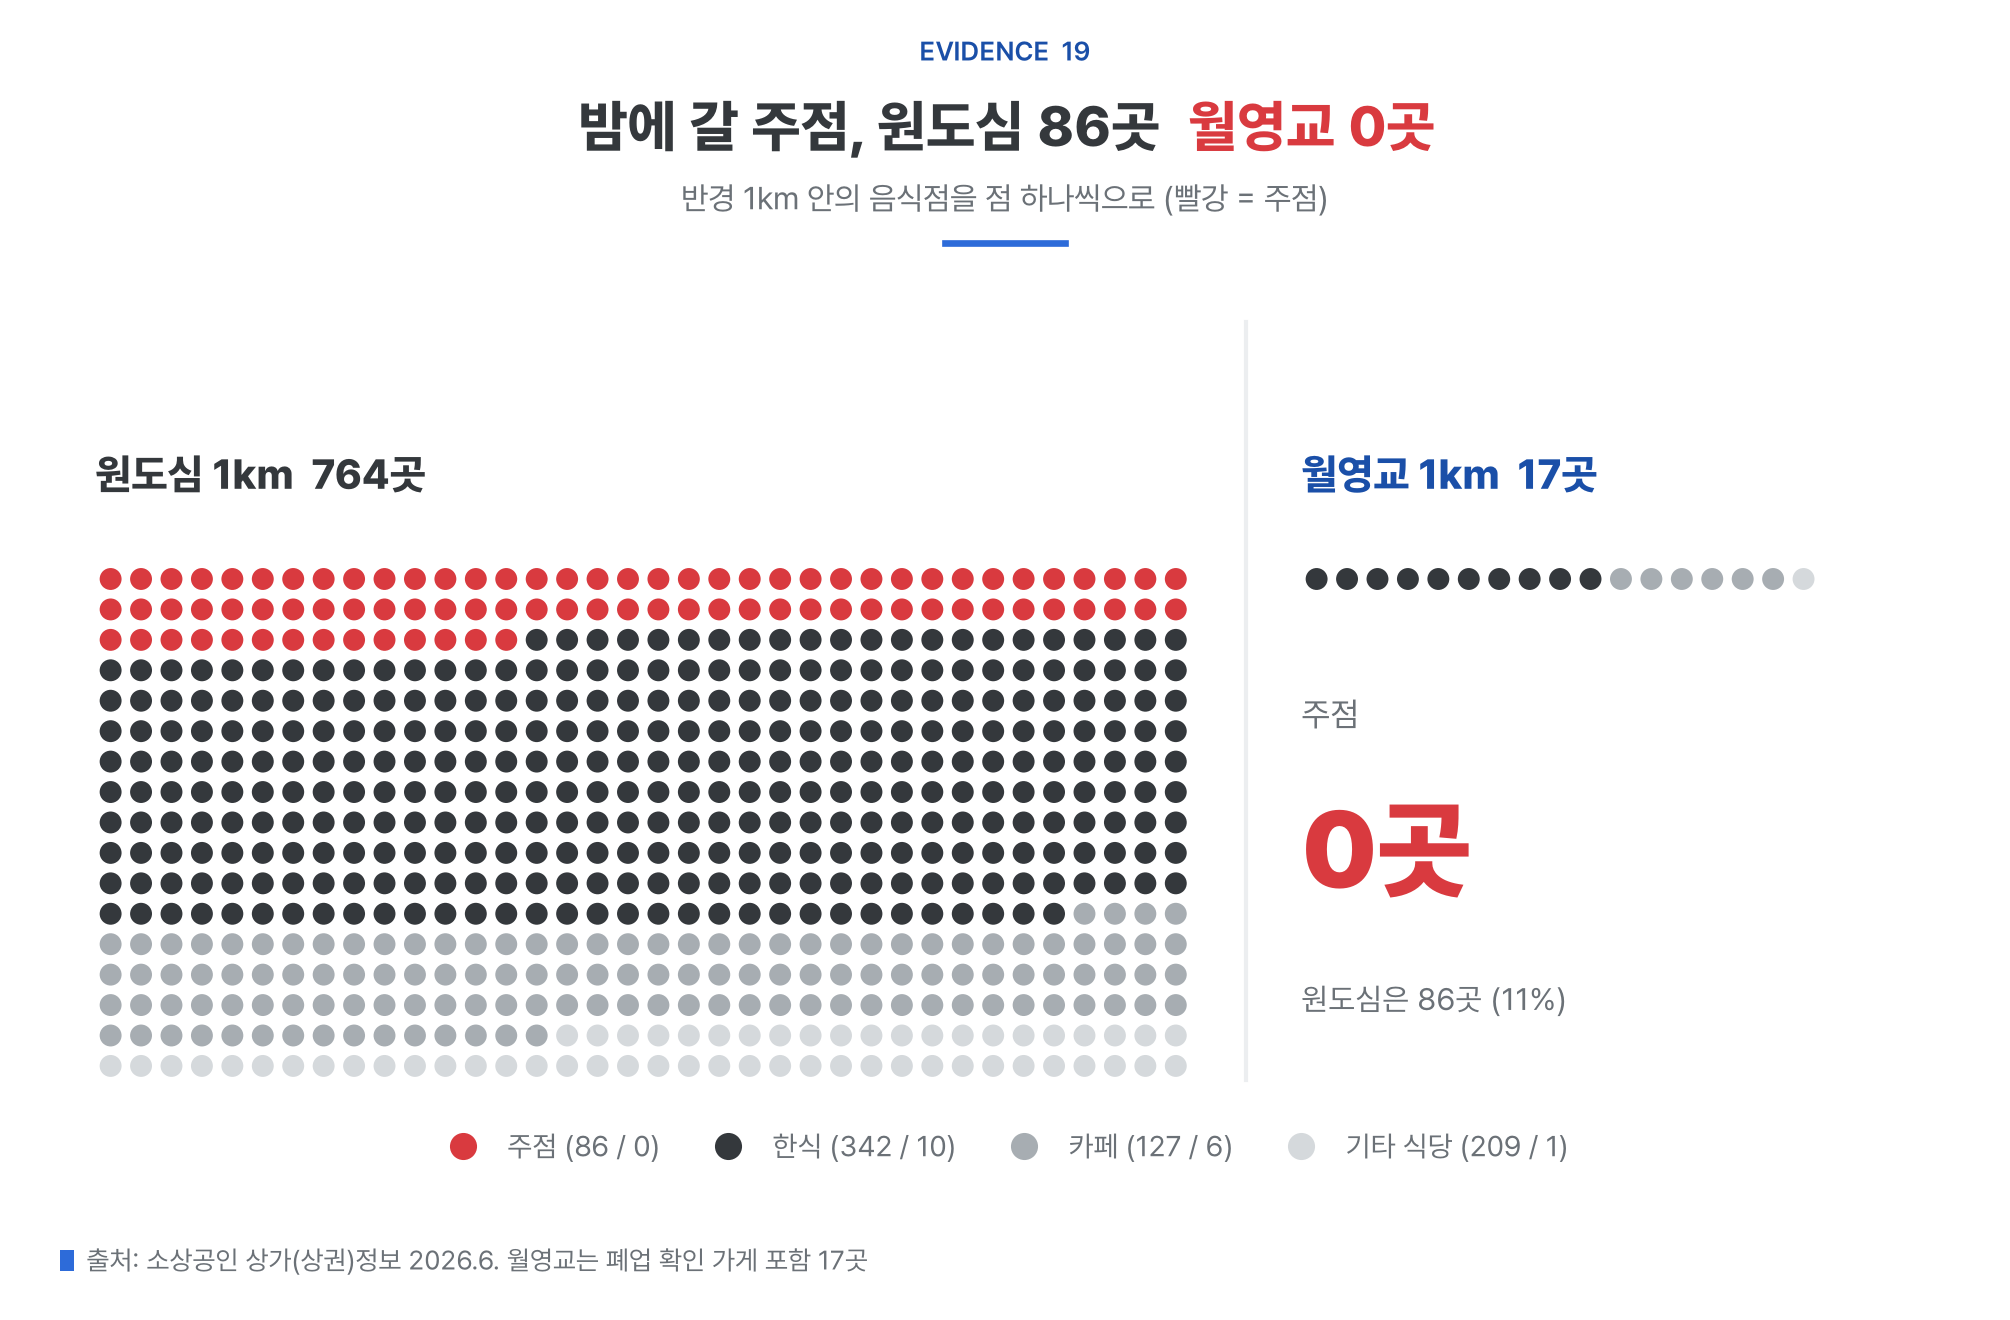
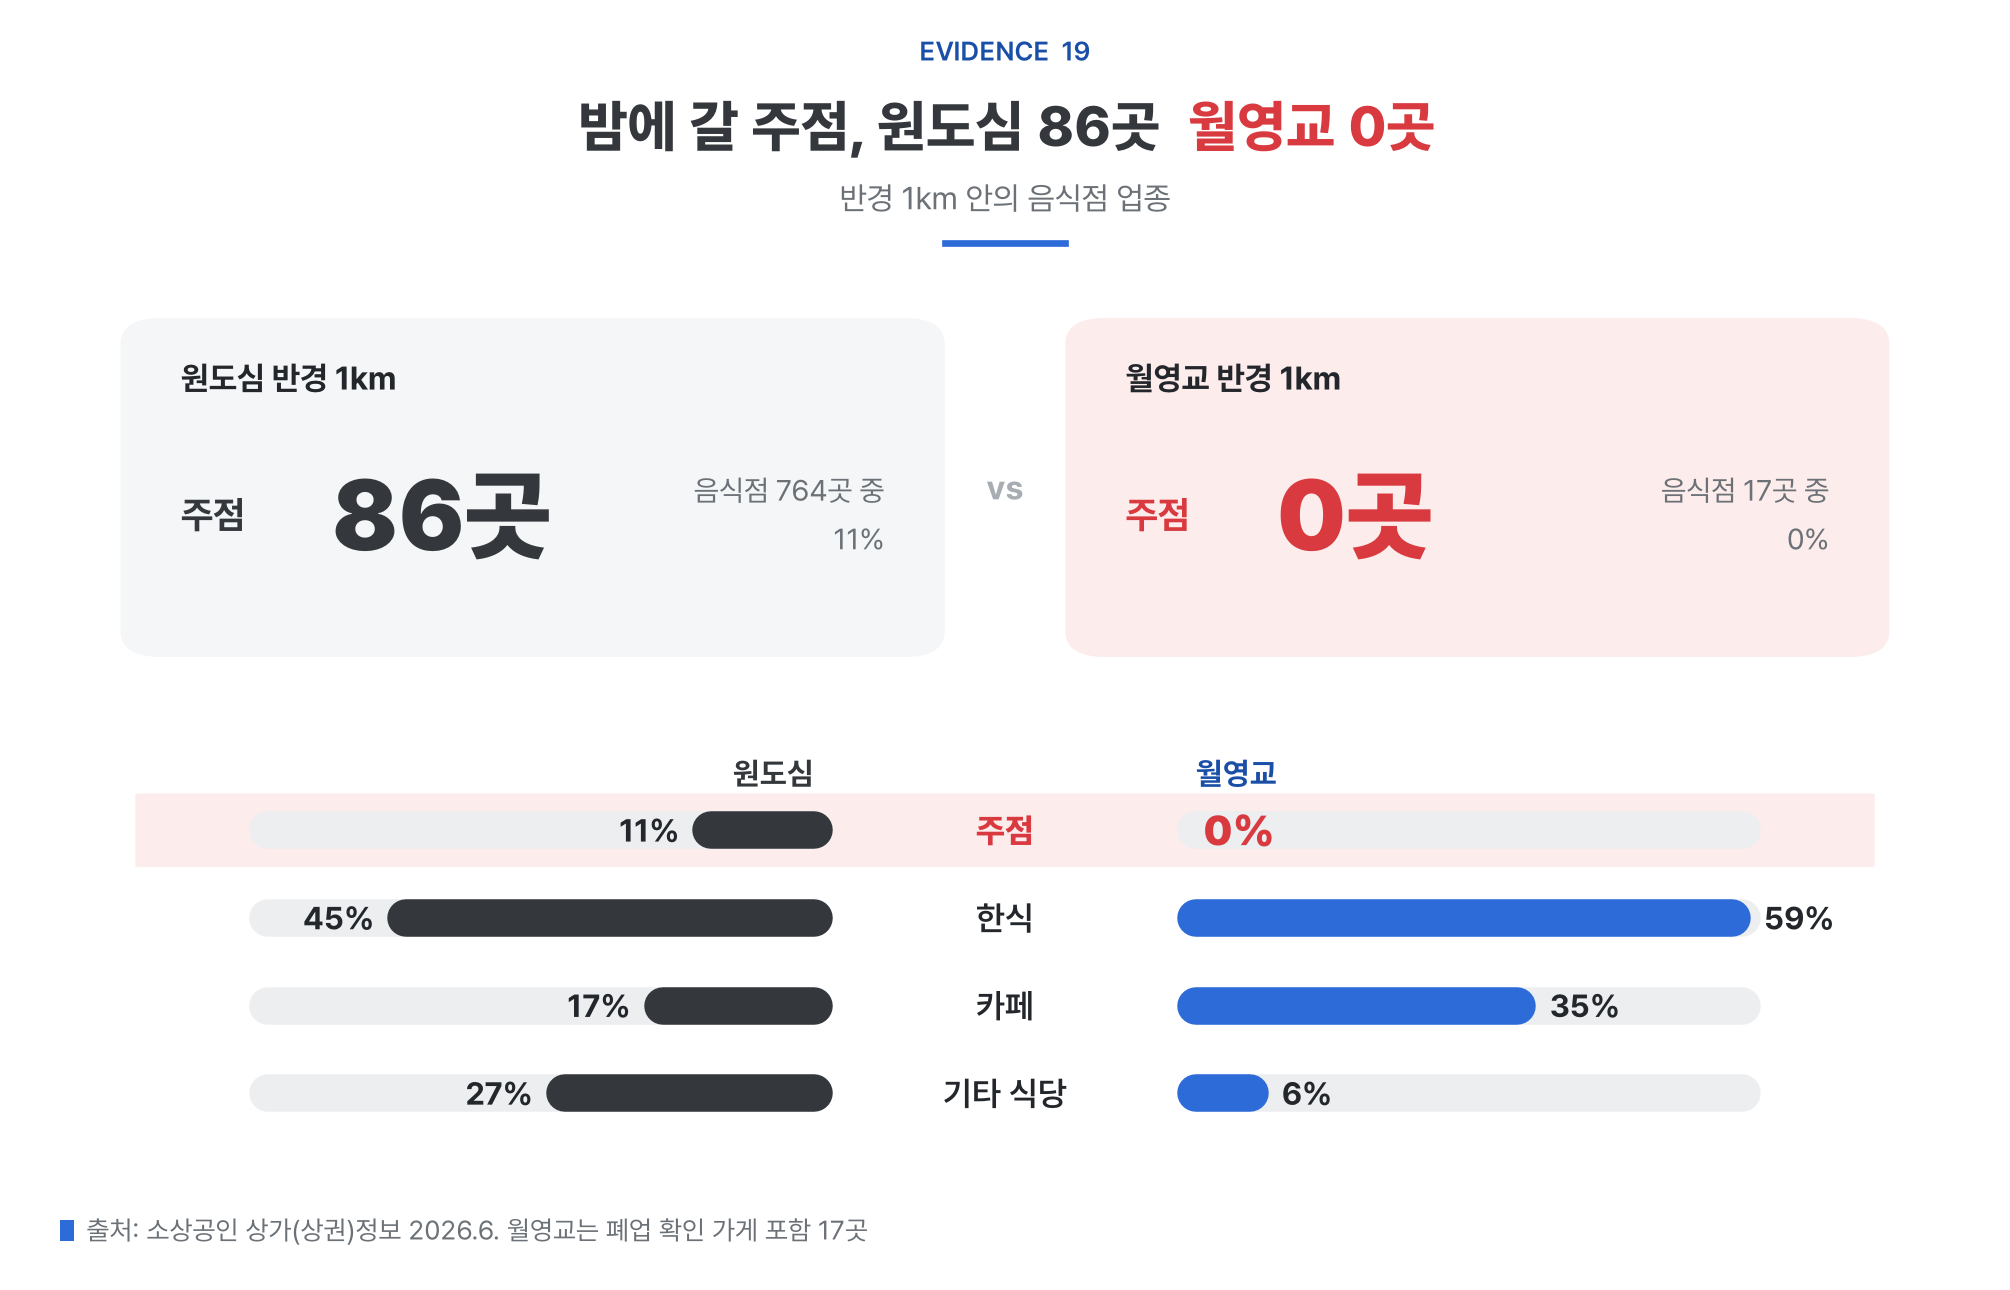
보고서 그림 19·26번 도안 교체: 숫자 카드+대칭 막대, 노선도
- 19번 업종 구성: 주점 86곳 vs 0곳 큰 숫자 카드 + 업종 비중 대칭 막대
- 26번 3단계 릴레이: 지금(끊긴 점선·빨간 X) vs 이어드림(이어진 파란 선) 노선도

Claude-Session: https://claude.ai/code/session_016N6mMnz5UFx5cMW491njTm

diff --git a/scripts/보고서그림.py b/scripts/보고서그림.py
@@ -697,34 +697,43 @@ ax.text(22, 0.55, '21시 이후\n0곳', ha='center', va='center', fontsize=10, f
 ax.set_xlim(17.2, 23); ax.set_ylim(-0.6, 1.3); ax.set_xticks([]); ax.set_yticks([])
 save(fig)
 
-# 10 업종 구성 (9/28 3차: 도넛은 뜻이 안 보임 → 가게 하나 = 점 하나. 규모 차이와 주점 0곳이 바로 보이게)
+# 10 업종 구성 (9/28 4차: 점 그림도 안 와닿음 → 위 큰 숫자 카드 둘(주점 86곳 vs 0곳) + 아래 업종 비중 대칭 막대)
 bk = Q['반경1km업종']
 grp = lambda d: {'주점': d.get('주점', 0), '한식': d.get('한식', 0), '카페': d.get('비알코올', 0),
                  '기타 식당': sum(v for k, v in d.items() if k not in ('한식', '비알코올', '주점'))}
-ccol = {'주점': RED, '한식': CHAR, '카페': GRAY, '기타 식당': GRAY_L}
 g_o, g_w = grp(bk['원도심']), grp(bk['월영교'])
+n_o, n_w = sum(g_o.values()), sum(g_w.values())
 fig = base('업종구성_월영교vs원도심', 10, '근거', '밤에 갈 주점, 원도심 86곳', '월영교 0곳',
-           '반경 1km 안의 음식점을 점 하나씩으로 (빨강 = 주점)', '출처: 소상공인 상가(상권)정보 2026.6. 월영교는 폐업 확인 가게 포함 17곳', h_in=4.4)
-axo = fig.add_axes([0.04, fig._bot + 0.1, 0.56, fig._top - fig._bot - 0.2]); axo.axis('off')
-wo, ho = 0.56 * W_IN, (fig._top - fig._bot - 0.2) * fig._h
-axo.set_xlim(0, wo); axo.set_ylim(0, ho); axo.set_aspect('equal')
-cols_o = 36; gap_o = (wo - 0.1) / cols_o
-seq_o = [k for k in ccol for _ in range(g_o[k])]
-for i_, k in enumerate(seq_o):
-    axo.add_patch(Circle((0.05 + (i_ % cols_o) * gap_o + gap_o / 2, ho - 0.55 - (i_ // cols_o) * gap_o), gap_o * 0.36, color=ccol[k], lw=0))
-axo.text(0.05, ho - 0.2, f"원도심 1km  {sum(g_o.values())}곳", fontsize=10, fontweight='extra bold', color=CHAR, va='center')
-axw = fig.add_axes([0.64, fig._bot + 0.1, 0.33, fig._top - fig._bot - 0.2]); axw.axis('off')
-ww, hw = 0.33 * W_IN, (fig._top - fig._bot - 0.2) * fig._h
-axw.set_xlim(0, ww); axw.set_ylim(0, hw); axw.set_aspect('equal')
-seq_w = [k for k in ccol for _ in range(g_w[k])]
-for i_, k in enumerate(seq_w):
-    axw.add_patch(Circle((0.05 + (i_ % 36) * gap_o + gap_o / 2, hw - 0.55 - (i_ // 36) * gap_o), gap_o * 0.36, color=ccol[k], lw=0))
-axw.text(0.05, hw - 0.2, f"월영교 1km  {sum(g_w.values())}곳", fontsize=10, fontweight='extra bold', color=BLUE_D, va='center')
-axw.text(0.05, hw - 1.0, '주점', fontsize=8, color=SUB, va='center')
-axw.text(0.05, hw - 1.45, '0곳', fontsize=26, fontweight='black', color=RED, va='center')
-axw.text(0.05, hw - 1.95, f"원도심은 {g_o['주점']}곳 ({g_o['주점'] / sum(g_o.values()) * 100:.0f}%)", fontsize=7.4, color=SUB, va='center')
-fig.add_artist(Line2D([0.62, 0.62], [fig._bot + 0.1, fig._top - 0.03], color=TRACK, lw=1, transform=fig.transFigure))
-legend(fig, [(f"{k} ({g_o[k]} / {g_w[k]})", c, 'dot') for k, c in ccol.items()], y=fig._bot + 0.05)
+           '반경 1km 안의 음식점 업종', '출처: 소상공인 상가(상권)정보 2026.6. 월영교는 폐업 확인 가게 포함 17곳', h_in=4.3)
+ty_, th_ = fig._top - 1.25 / fig._h, 1.13 / fig._h                    # 카드 위치·높이
+for x0_, nm_, n_, k_, col, bg in ((0.06, '원도심 반경 1km', n_o, g_o['주점'], CHAR, '#F4F6F7'),
+                                  (0.53, '월영교 반경 1km', n_w, g_w['주점'], RED, RED_XL)):
+    fig.patches.append(FancyBboxPatch((x0_, ty_), 0.41, th_, boxstyle='round,pad=0,rounding_size=0.02', transform=fig.transFigure, fc=bg, ec='none'))
+    fig.text(x0_ + 0.03, ty_ + th_ - 0.2 / fig._h, nm_, fontsize=7.8, fontweight='bold', color=INK, va='center')
+    fig.text(x0_ + 0.03, ty_ + th_ * 0.42, '주점', fontsize=9, fontweight='bold', color=col, va='center')
+    fig.text(x0_ + 0.105, ty_ + th_ * 0.42, f'{k_}곳', fontsize=24, fontweight='black', color=col, va='center')
+    fig.text(x0_ + 0.38, ty_ + th_ * 0.42, f'음식점 {n_}곳 중\n{k_ / n_ * 100:.0f}%', fontsize=7, color=SUB, va='center', ha='right', linespacing=1.4)
+fig.text(0.5, ty_ + th_ / 2, 'vs', fontsize=8, fontweight='bold', color=GRAY, ha='center', va='center')
+ax = fig.add_axes([0.06, fig._bot + 0.12 / fig._h, 0.88, ty_ - fig._bot - 0.42 / fig._h]); ax.axis('off')
+cats = list(g_o); ys = np.arange(len(cats))[::-1]; G0 = 13; SC_ = 0.62            # 가운데 이름 칸 폭, 막대 배율(% → 축)
+for y_, k in zip(ys, cats):
+    so, sw = g_o[k] / n_o * 100, g_w[k] / n_w * 100
+    if k == '주점':
+        ax.add_patch(FancyBboxPatch((-G0 - 60 * SC_ - 9, y_ - 0.42), 2 * (G0 + 60 * SC_ + 9), 0.84, boxstyle='round,pad=0,rounding_size=0.3',
+                                    fc=RED_XL, ec='none', zorder=0, mutation_aspect=0.05))
+    ax.plot([-G0, -G0 - 60 * SC_], [y_, y_], color=TRACK, lw=9, solid_capstyle='round', zorder=1)
+    ax.plot([G0, G0 + 60 * SC_], [y_, y_], color=TRACK, lw=9, solid_capstyle='round', zorder=1)
+    ax.plot([-G0, -G0 - max(so, 0.8) * SC_], [y_, y_], color=CHAR, lw=9, solid_capstyle='round', zorder=2)
+    if sw > 0:
+        ax.plot([G0, G0 + sw * SC_], [y_, y_], color=BLUE, lw=9, solid_capstyle='round', zorder=2)
+    ax.text(-G0 - so * SC_ - 2.2, y_, f'{so:.0f}%', ha='right', va='center', fontsize=7.6, fontweight='bold', color=INK)
+    hot = k == '주점'
+    ax.text(G0 + sw * SC_ + (2.2 if sw else 0.5), y_, f'{sw:.0f}%', ha='left', va='center', fontsize=10 if hot else 7.6,
+            fontweight='black' if hot else 'bold', color=RED if hot else INK)
+    ax.text(0, y_, k, ha='center', va='center', fontsize=8, fontweight='extra bold' if hot else 'semibold', color=RED if hot else INK)
+ax.text(-G0, len(cats) - 0.35, '원도심', ha='right', va='center', fontsize=7.4, fontweight='bold', color=CHAR)
+ax.text(G0, len(cats) - 0.35, '월영교', ha='left', va='center', fontsize=7.4, fontweight='bold', color=BLUE_D)
+ax.set_xlim(-G0 - 60 * SC_ - 10, G0 + 60 * SC_ + 10); ax.set_ylim(-0.6, len(cats) - 0.05)
 save(fig)
 
 # 11 관광지별 방문 vs 소비 (철도공사)
@@ -844,27 +853,33 @@ ax.text(day, 0.5, f'숙박 {stay}명은 제외', ha='right', fontsize=6.6, color
 save(fig)
 
 # ═════════════ 4. 해법 ═════════════
-# 9/28 3차: 글이 많고 안 와닿음 → 하루 시간 띠 위 세 구간 + 구간마다 "지금(빨강) → 이어드림(파랑)" 두 줄만
-fig = base('3단계릴레이', 16, '해법', '하루를 세 구간으로 잇는', '3단계 릴레이',
-           '낮에 원도심에서, 저녁에 월영교로, 밤까지 머물게', '출처: 서식4 3)칸 운영안, 한국관광 데이터랩·BIS·상가정보', h_in=3.8)
-ax = fig.add_axes([0.1, fig._bot + 0.05, 0.86, fig._top - fig._bot - 0.08]); ax.axis('off')
-ax.set_xlim(10.2, 23.2); ax.set_ylim(0, 10)
-segs = [(11, 18.5, '낮 · 원도심', '식사 → 체험', BLUE_L, CHAR, '혜택 0곳', '식당 83곳 체험 할인'),
-        (18.5, 21, '저녁', '원도심 → 월영교', BLUE, 'white', '버스 0회', '택시·셔틀'),
-        (21, 23, '밤 · 월영교', '머물며 쓰기', BLUE_D, 'white', '주점 0곳', '야간 팝업')]
-for x0_, x1_, t1, t2, col, tc, now_, new_ in segs:
-    ax.add_patch(FancyBboxPatch((x0_ + 0.04, 6.6), x1_ - x0_ - 0.08, 2.4, boxstyle='round,pad=0,rounding_size=0.25', fc=col, ec='none', mutation_aspect=1 / 3.5))
-    xc = (x0_ + x1_) / 2
-    ax.text(xc, 8.2, t1, ha='center', va='center', fontsize=9.6, fontweight='black', color=tc)
-    ax.text(xc, 7.25, t2, ha='center', va='center', fontsize=7.4, color=tc)
-    ax.text(xc, 4.9, now_, ha='center', va='center', fontsize=13, fontweight='black', color=RED)
-    ax.text(xc, 3.55, '▼', ha='center', va='center', fontsize=8, color=GRAY)
-    ax.text(xc, 2.3, new_, ha='center', va='center', fontsize=10, fontweight='extra bold', color=BLUE_D)
-for h in (11, 18.5, 21, 23):
-    ax.text(h, 9.55, f"{int(h)}:{'30' if h % 1 else '00'}", ha='center', va='center', fontsize=7, color=SUB)
-ax.text(10.25, 4.9, '지금', ha='left', va='center', fontsize=7.6, fontweight='bold', color=RED)
-ax.text(10.25, 2.3, '이어드림', ha='left', va='center', fontsize=7.6, fontweight='bold', color=BLUE_D)
-ax.plot([10.2, 23.2], [3.55, 3.55], color=TRACK, lw=0.8, zorder=0)
+# 9/28 4차: 시간 띠도 안 와닿음 → 노선도 두 줄. 지금 = 끊긴 회색 점선 + 역마다 빨간 공백, 이어드림 = 이어진 파란 선 + 해법
+fig = base('3단계릴레이', 16, '해법', '끊긴 하루를 한 줄로 잇는', '3단계 릴레이',
+           '낮에 원도심에서, 저녁에 월영교로, 밤까지 머물게', '출처: 서식4 3)칸 운영안, 한국관광 데이터랩·BIS·상가정보', h_in=3.6)
+ax = fig.add_axes([0.03, fig._bot + 0.05 / fig._h, 0.94, fig._top - fig._bot - 0.1 / fig._h]); ax.axis('off')
+ax.set_xlim(0, 10); ax.set_ylim(0, 10)
+ASP = (0.94 * W_IN) / ((fig._top - fig._bot - 0.1 / fig._h) * fig._h)     # 가로 1칸 대비 세로 1칸 길이 비 → 원이 찌그러지지 않게
+st_ = [(2.3, '1', '원도심', '낮 · 식사 → 체험', '혜택 0곳', '식당 83곳 체험 할인'),
+       (5.5, '2', '저녁 이동', '18:30 ~ 21:00', '버스 0회', '택시·셔틀'),
+       (8.7, '3', '월영교', '밤 · 21시 이후', '주점 0곳', '야간 팝업')]
+YN, YE = 6.3, 2.4                                                       # 지금 줄, 이어드림 줄
+ax.text(0.15, YN, '지금', fontsize=9, fontweight='extra bold', color=RED, va='center')
+ax.text(0.15, YE, '이어드림', fontsize=9, fontweight='extra bold', color=BLUE_D, va='center')
+ax.plot([2.3, 8.7], [YN, YN], color=GRAY_L, lw=2.2, ls=(0, (2.5, 2.5)), zorder=1)
+for xm_ in (3.9, 7.1):                                                 # 역 사이가 끊겼다는 표시
+    ax.add_patch(Ellipse((xm_, YN), 0.5, 0.5 * ASP, fc='white', ec='none', zorder=3))
+    for sx_ in (1, -1):
+        ax.plot([xm_ - 0.13, xm_ + 0.13], [YN - 0.13 * ASP * sx_, YN + 0.13 * ASP * sx_], color=RED, lw=2.4, solid_capstyle='round', zorder=4)
+ax.plot([2.3, 8.7], [YE, YE], color=BLUE, lw=6, solid_capstyle='round', zorder=1)
+for x_, no_, nm_, tm_, bad_, fix_ in st_:
+    ax.text(x_, 9.6, nm_, ha='center', va='center', fontsize=10, fontweight='black', color=CHAR)
+    ax.text(x_, 8.75, tm_, ha='center', va='center', fontsize=7, color=SUB)
+    ax.add_patch(Ellipse((x_, YN), 0.42, 0.42 * ASP, fc='white', ec=GRAY, lw=1.6, zorder=3))
+    ax.text(x_, YN - 1.1, bad_, ha='center', va='center', fontsize=12, fontweight='black', color=RED)
+    ax.add_patch(Ellipse((x_, YE), 0.6, 0.6 * ASP, fc=BLUE_D, ec='white', lw=2, zorder=3))
+    ax.text(x_, YE, no_, ha='center', va='center', fontsize=8, fontweight='bold', color='white', zorder=4)
+    ax.text(x_, YE - 1.15, fix_, ha='center', va='center', fontsize=9.5, fontweight='extra bold', color=BLUE_D, linespacing=1.25)
+ax.plot([0.15, 9.85], [4.2, 4.2], color=TRACK, lw=0.8, zorder=0)
 save(fig)
 
 # ═════════════ 5. 효과 (시행 전 예측) ═════════════

diff --git a/docs/작업일지.md b/docs/작업일지.md
@@ -7,8 +7,9 @@
 ## 2026-09-28 보고서 그림 42장: 빨강 강조, 19·26번 재설계
 - 사용자 요청: 19번(업종 구성) 도넛은 뜻이 안 보이고, 26번(3단계 릴레이)은 글이 많아 와닿지 않음. 문제를 보여 주는 숫자는 빨강으로 눈에 띄게.
 - 색: 빨강 `#D93A3F`(진 `#A8262B`, 연 `#F2B3B5`, 아주 연 `#FDECEC`)는 문제·경고 숫자에만 사용(−16.8%, 0곳, 0회 등). 파랑은 안동·이어드림 기본 강조로 그대로 둠. 파랑·빨강·차콜 조합 색각 검사 통과. 제목 두 번째 색은 문제 그림 18장(`RED_TITLE`)만 빨강.
-- 19번: 가게 하나를 점 하나로 그림(원도심 764곳 중 주점 86곳 빨강, 월영교 17곳 중 주점 0곳 → 큰 빨강 "0곳").
-- 26번: 하루 시간 띠(11:00 · 18:30 · 21:00 · 23:00) 위 세 구간, 구간마다 "지금(빨강: 혜택 0곳·버스 0회·주점 0곳) → 이어드림(파랑: 식당 83곳 체험 할인·택시·셔틀·야간 팝업)" 두 줄만 남김.
+- 19번(4차, 사용자 "도안 마음에 안 듦"): 위 큰 숫자 카드 둘(원도심 주점 86곳 vs 월영교 0곳, 빨강 카드) + 아래 업종 비중 대칭 막대(원도심 차콜·월영교 파랑, 주점 줄 빨강 음영). 이전 점 그림(가게 하나 = 점 하나)은 버림.
+- 26번(4차): 노선도 두 줄. 지금 = 회색 점선 + 역 사이 빨간 X + 역마다 빨강(혜택 0곳·버스 0회·주점 0곳), 이어드림 = 이어진 파란 선 + 번호 역 1·2·3 + 해법(식당 83곳 체험 할인·택시·셔틀·야간 팝업). 이전 시간 띠는 버림.
+- 클라우드에서 다시 그릴 때: Pretendard OTF를 `~/Library/Fonts`에 넣으면 스크립트가 그대로 읽음. 다른 40장은 바이트만 달라져 되돌림(내용 동일).
 - 생성 `scripts/보고서그림.py` → `보고서/보고서그림_20260928/01~42`. 숫자는 기존 JSON 그대로(변경 없음).
 
 ## 2026-09-28 안동 Atlas v1.2 실제 화면 재검수·접지/공원 수정 (배포 보류)
